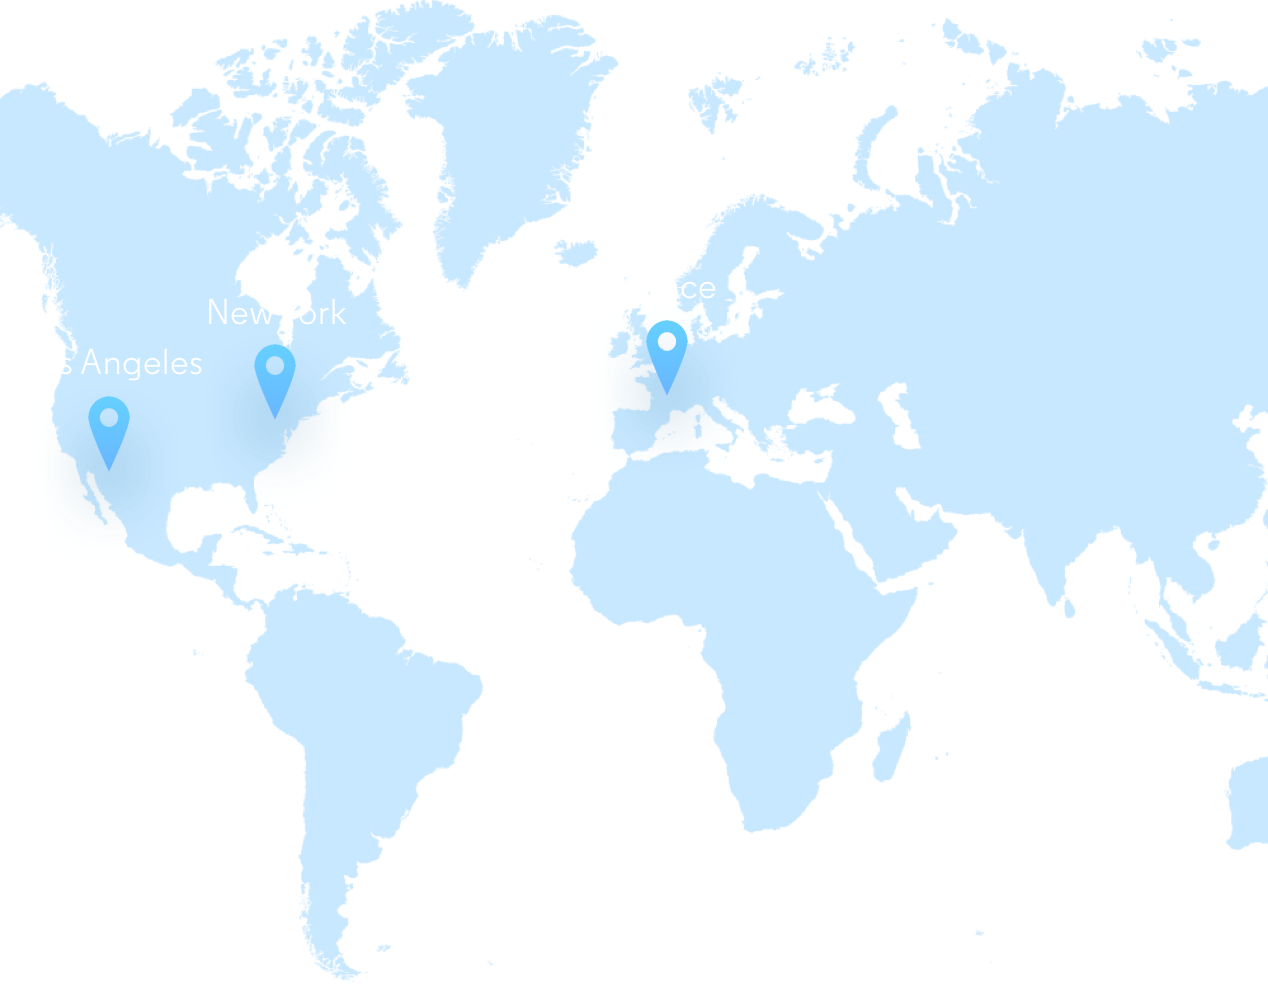
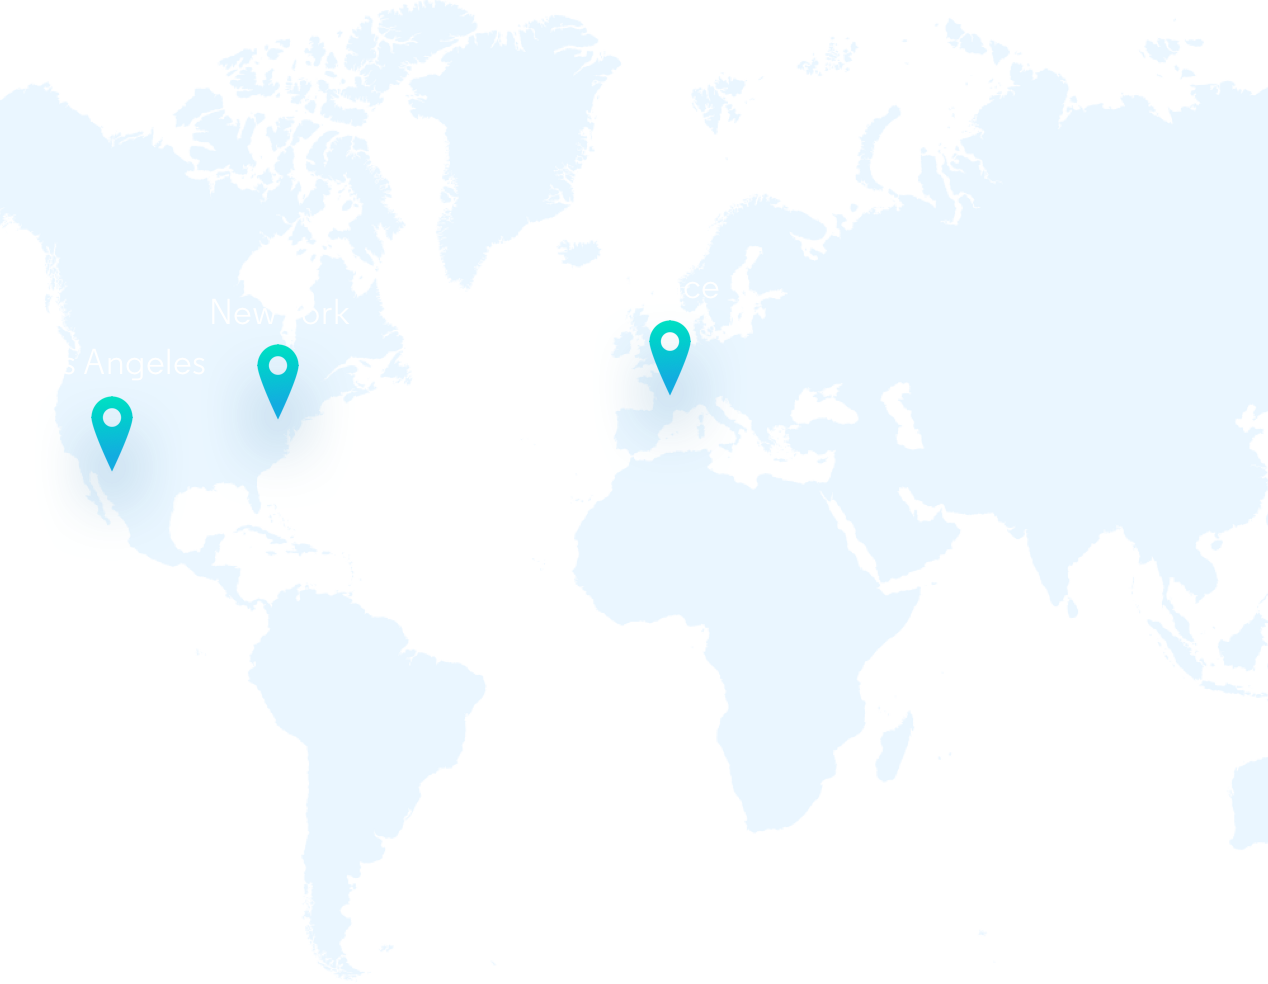
cleanup team section mobile

diff --git a/app/assets/stylesheets/homepage/_team.scss b/app/assets/stylesheets/homepage/_team.scss
@@ -1,5 +1,5 @@
 .team {
-  padding: 65px 0;
+  padding: 35px 0;
   background-color: #0F3588;
   position: relative;
   @media(max-width: $iphone5) {
@@ -17,7 +17,7 @@
     background: image-url("map_bg_mobile@2x.png");
     height: 100%;
     width: 100%;
-    top: 140px;
+    top: 100px;
     left: 0;
     position: absolute;
     background-repeat: no-repeat;
@@ -93,7 +93,7 @@
   }
 
   .employee-gap {
-    margin-top: 225px;
+    margin-top: 150px;
     @media(max-width: $iphone5) {
       margin-top: 185px;
     }
@@ -108,8 +108,9 @@
 
   .employee-grid {
     &.grid-1 {
-      margin-bottom: 60px;
+      margin-bottom: 30px;
     }
+
     &.grid-2 {
       img {
         -webkit-filter: grayscale(100%);
@@ -121,13 +122,22 @@
     h2 {
       &.col-12 {
         justify-content: center;
-        margin-bottom: 40px;
-
+        margin-bottom: 20px;
       }
     }
 
+    .col-6 {
+      padding-left: 10px;
+      padding-right: 10px;
+    }
+
     .employee-item {
-      margin-bottom: 30px;
+      margin-bottom: 20px;
+      background: #fff;
+      border-radius: 10px;
+      overflow: hidden;
+      height: calc(100% - 20px);
+      box-shadow: 0 9px 25px 0 rgba(0, 0, 0, 0.09);
     }
 
     .col-lg-4 {
@@ -142,7 +152,9 @@
 
     figure {
       margin: auto;
-      width: 125px;
+      height: 140px;
+      overflow: hidden;
+      // width: 125px;
       @media(min-width: $medium) {
         width: 149px;
       }
@@ -152,18 +164,18 @@
 
       img {
         width: 100%;
-        border-radius: 100%;
+        // border-radius: 100%;
         // border: 1px solid #1a6afd;
       }
     }
 
     figcaption {
-      margin-top: 12px;
-      margin-bottom: 3px;
+      margin-top: 8px;
+      margin-bottom: 5px;
       font-size: 16px;
       font-family: var(--paragraph-font);
       font-weight: 600;
-      color: #31bdfd;
+      color: #156ce0;
       text-align: center;
       @media(min-width: $medium) {
         font-size: 18px;
@@ -174,8 +186,12 @@
       font-family: var(--paragraph-font);
       font-weight: 500;
       font-size: 13px;
-      color: rgba(255, 255, 255, 0.76);
+      padding: 0 10px;
+      line-height: 1.3;
+      color: rgba(7, 18, 27, 0.76);
       text-align: center;
+      margin-bottom: 10px;
+      letter-spacing: 0.1px;
       @media(min-width: $medium) {
         font-size: 16px;
         line-height: 1.2;
